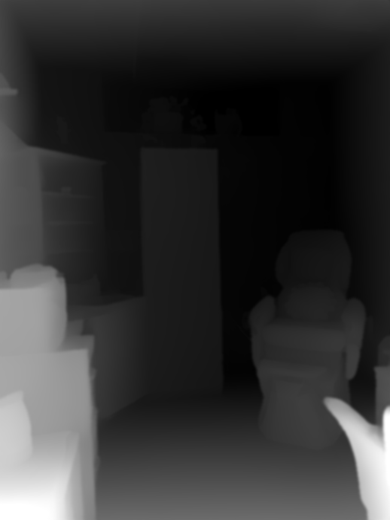
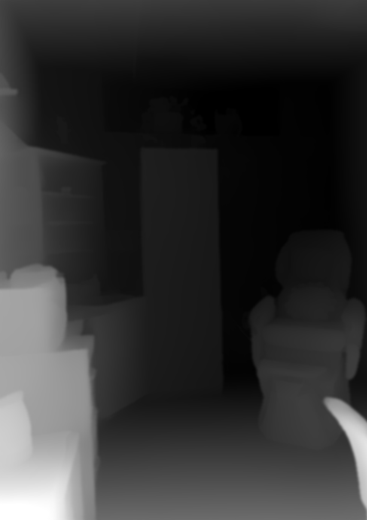
3D suite: one rolling cart (trim duplicate sliver from chair photo), retouch half-cut flowers and dark sliver at the seam, hinge walls on the shared corner
Claude-Session: https://claude.ai/code/session_01YEyJbbYGsKQQ92cto3SP7R

diff --git a/js/build/app.js b/js/build/app.js
@@ -1,1 +1,1 @@
-import{a as v,b as x,c as T,d as R,e as q,f as H,i as r,j as k,k as p,l as M}from"./chunk-SJBJ4AOW.js";var s=(t,e=document)=>e.querySelector(t),d=(t,e=document)=>[...e.querySelectorAll(t)],y=document.documentElement,O=matchMedia("(prefers-reduced-motion: reduce)").matches,N=t=>new Promise(e=>setTimeout(e,t)),g=null,L=s("#neonGL"),_=L?import("./neon-DC5NIUXJ.js").then(({createNeon:t})=>t(s(".door"),L)).then(t=>{if(!t){L.remove();return}return g=t,s(".door").classList.add("neon-live"),window.neonSurge=()=>t.surge(),t.ready}).catch(()=>L.remove()):Promise.resolve(),B=document.fonts?document.fonts.ready.catch(()=>{}):Promise.resolve();Promise.race([Promise.all([_,B,N(O?300:1600)]),N(5e3)]).then(()=>{if(!y.classList.contains("loading")){g&&g.start();return}window.scrollTo(0,0),window.__lenis&&window.__lenis.scrollTo(0,{immediate:!0,force:!0}),y.classList.add("handoff"),y.classList.remove("loading"),requestAnimationFrame(()=>requestAnimationFrame(W))});function W(){let t=s(".splash-sign"),e=0;if(g&&t&&!O){let n=s(".door").getBoundingClientRect(),a=g.rectOf(380,200,1230,510),o=t.getBoundingClientRect(),i=a.width/o.width;t.style.transformOrigin="0 0",t.style.transition="transform .9s cubic-bezier(.65,0,.25,1)",t.style.transform=`translate(${n.left+a.left-o.left}px, ${n.top+a.top-o.top}px) scale(${i})`,e=650}setTimeout(()=>{y.classList.add("revealing","revealed"),setTimeout(()=>g&&g.start(),O?0:450),setTimeout(()=>{y.classList.remove("revealing","handoff"),s(".splash")?.remove()},1900)},e)}var w=s(".chandelier");if(w){let t=new IntersectionObserver(([e])=>{e.isIntersecting&&(t.disconnect(),import("./chandelier-TIB7XYI3.js").then(({createChandelier:n})=>{let a=n(w);a&&(w.classList.add("live"),window.chandelierSparkle=a.sparkle)}).catch(()=>{}))},{rootMargin:"600px"});t.observe(w)}var E=s("#stage"),S=s("#stageTip"),u=t=>{S.textContent=t,S.classList.remove("flash"),S.offsetWidth,S.classList.add("flash")},Z={square:"M6 22 C6 26 18 26 18 22 L18 6 Q18 3 15 3 L9 3 Q6 3 6 6 Z",round:"M6 22 C6 26 18 26 18 22 L18 9 C18 2 6 2 6 9 Z",almond:"M6 22 C6 26 18 26 18 22 L18 12 C18 5 14 1 12 1 C10 1 6 5 6 12 Z",coffin:"M6 22 C6 26 18 26 18 22 L18 12 L15 1 L9 1 L6 12 Z",stiletto:"M6 22 C6 26 18 26 18 22 L18 12 C18 7 13 2 12 0 C11 2 6 7 6 12 Z"},D={gloss:"radial-gradient(circle at 35% 30%,#fff 0 12%,#e2457f 30%,#a3184f 100%)",cateye:"linear-gradient(135deg,#3a0f2a 20%,#ffd1e6 50%,#3a0f2a 80%)",chrome:"linear-gradient(135deg,#fff,#f3d6ff 35%,#ffffff 50%,#cfe8ff 70%,#ffe3f0)",glitter:"radial-gradient(circle at 20% 30%,#fff 0 2px,transparent 3px),radial-gradient(circle at 70% 60%,#ffe9a8 0 2px,transparent 3px),radial-gradient(circle at 45% 80%,#fff 0 1.5px,transparent 3px),radial-gradient(circle at 80% 20%,#ffd3ec 0 2px,transparent 3px),#c8326f",jelly:"radial-gradient(circle at 35% 30%,rgba(255,255,255,.9) 0 10%,rgba(226,69,127,.55) 35%,rgba(160,20,80,.7))",matte:"linear-gradient(160deg,#d85d8b,#b13d6a)"},z={none:"\u2205",daisy:"\u273F",sunflower:"\u2740",starfish:"\u2605",dots:"\u2058",french:"\u25E0",gems:"\u25C6",heart:"\u2665",swirl:"\u3030"};function P(t,e,n,a){t.innerHTML=Object.entries(e).map(([o,i])=>`<button type="button" data-v="${o}" class="${r[n]===o?"on":""}" aria-pressed="${r[n]===o}">${a(o)}<span>${i}</span></button>`).join(""),t.addEventListener("click",o=>{let i=o.target.closest("button");i&&(d("button",t).forEach(m=>{let b=m===i;m.classList.toggle("on",b),m.setAttribute("aria-pressed",b)}),r[n]=i.dataset.v,p(n))})}P(s("#shapes"),R,"shape",t=>`<svg viewBox="0 0 24 27" aria-hidden="true"><path d="${Z[t]}"/></svg>`);P(s("#finishes"),q,"finish",t=>`<i class="sw" style="background:${D[t]}"></i>`);P(s("#arts"),H,"art",t=>`<i class="ai">${z[t]}</i>`);var I=s("#polishWall");I.innerHTML=v.map(([t,e],n)=>`<button type="button" class="bottle${n===0?" on":""}" style="--c:${e}" data-k="${n}" aria-label="${t}"><i class="b-cap"></i><i class="b-neck"></i><i class="b-glass"><i class="b-shine"></i></i></button>`).join("");s("#colorName").textContent=r.color[0];var A=s("#tones");A.innerHTML=T.map((t,e)=>`<button type="button" style="--t:${t}" data-k="${e}" class="${t===r.tone?"on":""}" aria-label="Skin tone ${e+1}"></button>`).join("");A.addEventListener("click",t=>{let e=t.target.closest("button");e&&(d("button",A).forEach(n=>n.classList.toggle("on",n===e)),r.tone=T[+e.dataset.k],p("tone"))});var V=s("#sendDesign"),j=()=>{V.href=M()};k(j);j();k(t=>{if(t==="finish"){let e={cateye:"Cat-eye! Slide your finger across the hand (or tilt your phone) to move the magnet.",chrome:"Chrome glaze: a pearly, glazed-donut shine.",glitter:"Glitter flakes catch the light as the hand moves.",jelly:"Jelly: sheer, glassy and juicy.",matte:"Velvet matte: soft and luxe.",gloss:"Classic gloss with a mirror topcoat."}[r.finish];u(e)}t==="art"&&r.art==="gems"&&u("Real crystals on your ring finger. Watch them catch the light \u2728")});var c=null,C=null;function $(){return c||C||(C=import("./studio-2SNXEXIX.js").then(({createStudio:t})=>(G(t),c))),C}function G(t){if(c=t(E,{onTip:u}),!c){E.classList.add("no-gl"),u("Your browser can\u2019t show the 3D studio, but Sang can still paint anything you dream up!");return}E.classList.add("ready")}var F=new IntersectionObserver(([t])=>{t.isIntersecting&&($(),F.disconnect())},{rootMargin:"400px"});F.observe(E);I.addEventListener("click",t=>{let e=t.target.closest(".bottle");e&&(d(".bottle",I).forEach(n=>n.classList.toggle("on",n===e)),r.color=v[+e.dataset.k],s("#colorName").textContent=r.color[0],Promise.resolve($()).then(()=>c&&c.paintAll(r.color[1])),u("Tap a nail for a fresh coat, or drag the brush to paint by hand."),p("color"))});s("#paintAll").addEventListener("click",async()=>{await $(),c&&c.paintAll()});s("#rainbow").addEventListener("click",async()=>{await $(),c&&(r.finish="cateye",d("#finishes button").forEach(t=>{let e=t.dataset.v==="cateye";t.classList.toggle("on",e),t.setAttribute("aria-pressed",e)}),p("finish"),c.paintSet(x),u("Inspired by Sang\u2019s rainbow cat-eye set. Slide across to move the shimmer!"))});s("#clearNails").addEventListener("click",()=>{c&&c.clear(),u("Bare and buffed. Pick a color from the wall.")});var f=s("#tryon"),Q=t=>{let e=r.nailColors[t],n=e[e.length-1],a=[...v,...x].find(o=>o[0]===n);return a?a[1]:r.color[1]},h=null;s("#tryOnBtn").addEventListener("click",async()=>{if(!navigator.mediaDevices?.getUserMedia){u("Your browser doesn\u2019t allow camera access here.");return}f.hidden=!1,f.querySelector(".to-status").textContent="Loading\u2026",h=h||await import("./tryon-ROLPQHYR.js"),f.querySelector(".to-send").href=M(),h.openTryOn(f,Q)});f.querySelector(".to-close").addEventListener("click",()=>h&&h.closeTryOn(f));f.querySelector(".to-flip").addEventListener("click",()=>h&&h.flipCamera(f));var l=s("#suiteStage");if(l){let t=[];d(".suite-photos .hotspot-photo").forEach((a,o)=>{d(".hs",a).forEach(i=>{let m=parseFloat(i.style.getPropertyValue("--x"))/100,b=parseFloat(i.style.getPropertyValue("--y"))/100;t.push({view:o,u:m,v:1-b,title:i.dataset.title,text:i.dataset.text})})});let e=null,n=new IntersectionObserver(async([a])=>{if(!a.isIntersecting||e)return;n.disconnect();let{createSuite:o}=await import("./suite-QZJIKIXK.js");if(e=o(l,t),!e){l.remove();return}l.classList.add("ready"),s(".suite").classList.add("immersive")},{rootMargin:"500px"});n.observe(l),d(".suite-views button",l).forEach(a=>a.addEventListener("click",()=>e&&e.goTo(+a.dataset.view))),l.addEventListener("suiteview",a=>{d(".suite-views button",l).forEach(o=>o.classList.toggle("on",+o.dataset.view===a.detail))})}
+import{a as v,b as x,c as T,d as R,e as q,f as H,i as r,j as k,k as p,l as M}from"./chunk-SJBJ4AOW.js";var s=(t,e=document)=>e.querySelector(t),d=(t,e=document)=>[...e.querySelectorAll(t)],y=document.documentElement,O=matchMedia("(prefers-reduced-motion: reduce)").matches,N=t=>new Promise(e=>setTimeout(e,t)),g=null,L=s("#neonGL"),_=L?import("./neon-DC5NIUXJ.js").then(({createNeon:t})=>t(s(".door"),L)).then(t=>{if(!t){L.remove();return}return g=t,s(".door").classList.add("neon-live"),window.neonSurge=()=>t.surge(),t.ready}).catch(()=>L.remove()):Promise.resolve(),B=document.fonts?document.fonts.ready.catch(()=>{}):Promise.resolve();Promise.race([Promise.all([_,B,N(O?300:1600)]),N(5e3)]).then(()=>{if(!y.classList.contains("loading")){g&&g.start();return}window.scrollTo(0,0),window.__lenis&&window.__lenis.scrollTo(0,{immediate:!0,force:!0}),y.classList.add("handoff"),y.classList.remove("loading"),requestAnimationFrame(()=>requestAnimationFrame(W))});function W(){let t=s(".splash-sign"),e=0;if(g&&t&&!O){let n=s(".door").getBoundingClientRect(),a=g.rectOf(380,200,1230,510),o=t.getBoundingClientRect(),i=a.width/o.width;t.style.transformOrigin="0 0",t.style.transition="transform .9s cubic-bezier(.65,0,.25,1)",t.style.transform=`translate(${n.left+a.left-o.left}px, ${n.top+a.top-o.top}px) scale(${i})`,e=650}setTimeout(()=>{y.classList.add("revealing","revealed"),setTimeout(()=>g&&g.start(),O?0:450),setTimeout(()=>{y.classList.remove("revealing","handoff"),s(".splash")?.remove()},1900)},e)}var w=s(".chandelier");if(w){let t=new IntersectionObserver(([e])=>{e.isIntersecting&&(t.disconnect(),import("./chandelier-TIB7XYI3.js").then(({createChandelier:n})=>{let a=n(w);a&&(w.classList.add("live"),window.chandelierSparkle=a.sparkle)}).catch(()=>{}))},{rootMargin:"600px"});t.observe(w)}var E=s("#stage"),S=s("#stageTip"),u=t=>{S.textContent=t,S.classList.remove("flash"),S.offsetWidth,S.classList.add("flash")},Z={square:"M6 22 C6 26 18 26 18 22 L18 6 Q18 3 15 3 L9 3 Q6 3 6 6 Z",round:"M6 22 C6 26 18 26 18 22 L18 9 C18 2 6 2 6 9 Z",almond:"M6 22 C6 26 18 26 18 22 L18 12 C18 5 14 1 12 1 C10 1 6 5 6 12 Z",coffin:"M6 22 C6 26 18 26 18 22 L18 12 L15 1 L9 1 L6 12 Z",stiletto:"M6 22 C6 26 18 26 18 22 L18 12 C18 7 13 2 12 0 C11 2 6 7 6 12 Z"},D={gloss:"radial-gradient(circle at 35% 30%,#fff 0 12%,#e2457f 30%,#a3184f 100%)",cateye:"linear-gradient(135deg,#3a0f2a 20%,#ffd1e6 50%,#3a0f2a 80%)",chrome:"linear-gradient(135deg,#fff,#f3d6ff 35%,#ffffff 50%,#cfe8ff 70%,#ffe3f0)",glitter:"radial-gradient(circle at 20% 30%,#fff 0 2px,transparent 3px),radial-gradient(circle at 70% 60%,#ffe9a8 0 2px,transparent 3px),radial-gradient(circle at 45% 80%,#fff 0 1.5px,transparent 3px),radial-gradient(circle at 80% 20%,#ffd3ec 0 2px,transparent 3px),#c8326f",jelly:"radial-gradient(circle at 35% 30%,rgba(255,255,255,.9) 0 10%,rgba(226,69,127,.55) 35%,rgba(160,20,80,.7))",matte:"linear-gradient(160deg,#d85d8b,#b13d6a)"},z={none:"\u2205",daisy:"\u273F",sunflower:"\u2740",starfish:"\u2605",dots:"\u2058",french:"\u25E0",gems:"\u25C6",heart:"\u2665",swirl:"\u3030"};function P(t,e,n,a){t.innerHTML=Object.entries(e).map(([o,i])=>`<button type="button" data-v="${o}" class="${r[n]===o?"on":""}" aria-pressed="${r[n]===o}">${a(o)}<span>${i}</span></button>`).join(""),t.addEventListener("click",o=>{let i=o.target.closest("button");i&&(d("button",t).forEach(m=>{let b=m===i;m.classList.toggle("on",b),m.setAttribute("aria-pressed",b)}),r[n]=i.dataset.v,p(n))})}P(s("#shapes"),R,"shape",t=>`<svg viewBox="0 0 24 27" aria-hidden="true"><path d="${Z[t]}"/></svg>`);P(s("#finishes"),q,"finish",t=>`<i class="sw" style="background:${D[t]}"></i>`);P(s("#arts"),H,"art",t=>`<i class="ai">${z[t]}</i>`);var I=s("#polishWall");I.innerHTML=v.map(([t,e],n)=>`<button type="button" class="bottle${n===0?" on":""}" style="--c:${e}" data-k="${n}" aria-label="${t}"><i class="b-cap"></i><i class="b-neck"></i><i class="b-glass"><i class="b-shine"></i></i></button>`).join("");s("#colorName").textContent=r.color[0];var A=s("#tones");A.innerHTML=T.map((t,e)=>`<button type="button" style="--t:${t}" data-k="${e}" class="${t===r.tone?"on":""}" aria-label="Skin tone ${e+1}"></button>`).join("");A.addEventListener("click",t=>{let e=t.target.closest("button");e&&(d("button",A).forEach(n=>n.classList.toggle("on",n===e)),r.tone=T[+e.dataset.k],p("tone"))});var V=s("#sendDesign"),j=()=>{V.href=M()};k(j);j();k(t=>{if(t==="finish"){let e={cateye:"Cat-eye! Slide your finger across the hand (or tilt your phone) to move the magnet.",chrome:"Chrome glaze: a pearly, glazed-donut shine.",glitter:"Glitter flakes catch the light as the hand moves.",jelly:"Jelly: sheer, glassy and juicy.",matte:"Velvet matte: soft and luxe.",gloss:"Classic gloss with a mirror topcoat."}[r.finish];u(e)}t==="art"&&r.art==="gems"&&u("Real crystals on your ring finger. Watch them catch the light \u2728")});var c=null,C=null;function $(){return c||C||(C=import("./studio-2SNXEXIX.js").then(({createStudio:t})=>(G(t),c))),C}function G(t){if(c=t(E,{onTip:u}),!c){E.classList.add("no-gl"),u("Your browser can\u2019t show the 3D studio, but Sang can still paint anything you dream up!");return}E.classList.add("ready")}var F=new IntersectionObserver(([t])=>{t.isIntersecting&&($(),F.disconnect())},{rootMargin:"400px"});F.observe(E);I.addEventListener("click",t=>{let e=t.target.closest(".bottle");e&&(d(".bottle",I).forEach(n=>n.classList.toggle("on",n===e)),r.color=v[+e.dataset.k],s("#colorName").textContent=r.color[0],Promise.resolve($()).then(()=>c&&c.paintAll(r.color[1])),u("Tap a nail for a fresh coat, or drag the brush to paint by hand."),p("color"))});s("#paintAll").addEventListener("click",async()=>{await $(),c&&c.paintAll()});s("#rainbow").addEventListener("click",async()=>{await $(),c&&(r.finish="cateye",d("#finishes button").forEach(t=>{let e=t.dataset.v==="cateye";t.classList.toggle("on",e),t.setAttribute("aria-pressed",e)}),p("finish"),c.paintSet(x),u("Inspired by Sang\u2019s rainbow cat-eye set. Slide across to move the shimmer!"))});s("#clearNails").addEventListener("click",()=>{c&&c.clear(),u("Bare and buffed. Pick a color from the wall.")});var f=s("#tryon"),Q=t=>{let e=r.nailColors[t],n=e[e.length-1],a=[...v,...x].find(o=>o[0]===n);return a?a[1]:r.color[1]},h=null;s("#tryOnBtn").addEventListener("click",async()=>{if(!navigator.mediaDevices?.getUserMedia){u("Your browser doesn\u2019t allow camera access here.");return}f.hidden=!1,f.querySelector(".to-status").textContent="Loading\u2026",h=h||await import("./tryon-ROLPQHYR.js"),f.querySelector(".to-send").href=M(),h.openTryOn(f,Q)});f.querySelector(".to-close").addEventListener("click",()=>h&&h.closeTryOn(f));f.querySelector(".to-flip").addEventListener("click",()=>h&&h.flipCamera(f));var l=s("#suiteStage");if(l){let t=[];d(".suite-photos .hotspot-photo").forEach((a,o)=>{d(".hs",a).forEach(i=>{let m=parseFloat(i.style.getPropertyValue("--x"))/100,b=parseFloat(i.style.getPropertyValue("--y"))/100;t.push({view:o,u:m,v:1-b,title:i.dataset.title,text:i.dataset.text})})});let e=null,n=new IntersectionObserver(async([a])=>{if(!a.isIntersecting||e)return;n.disconnect();let{createSuite:o}=await import("./suite-EJ25NBZ6.js");if(e=o(l,t),!e){l.remove();return}l.classList.add("ready"),s(".suite").classList.add("immersive")},{rootMargin:"500px"});n.observe(l),d(".suite-views button",l).forEach(a=>a.addEventListener("click",()=>e&&e.goTo(+a.dataset.view))),l.addEventListener("suiteview",a=>{d(".suite-views button",l).forEach(o=>o.classList.toggle("on",+o.dataset.view===a.detail))})}

diff --git a/js/build/suite-EJ25NBZ6.js b/js/build/suite-EJ25NBZ6.js
@@ -1,0 +1,72 @@
+import{d as Ie,e as Fe,f as ke,g as Le,h as We}from"./chunk-RT5W57VC.js";import{D as Ee,Fa as De,G as O,O as Me,Q as xe,T as $,V as Te,X as Re,Y as ye,_ as Z,b as ge,ba as be,ca as Se,e as N,g as we,la as He,ma as Pe,qa as L,va as Ce,wa as Ae,z as k}from"./chunk-NTALV72E.js";var Ue=matchMedia("(prefers-reduced-motion: reduce)").matches,ze=new URL("../../images/",import.meta.url).href,Je=[{img:"suite-desk-hd.webp",depth:"suite-desk-depth.png"},{img:"suite-pedicure-hd.webp",depth:"suite-pedicure-depth.png"}],W=4.6,Q=W*.75,ee=4,J=1.55,w=Math.atan(Q/2/ee),Qe=[[[.262,.128],[.078,.323],[.352,.25],[.279,.256],[.772,.119],[.675,.132],[.527,.141],[.745,.234],[.854,.23],[.554,.243],[.614,.241],[.835,.343],[.147,.322],[.613,.135],[.132,.602],[.296,.602],[.448,.606],[.819,.437],[.674,.237],[.397,.144],[.925,.227],[.16,.644],[.381,.604],[.201,.601],[.876,.675],[.466,.145]],[[.144,.58],[.334,.346],[.181,.637],[.128,.522],[.238,.526],[.204,.579],[.057,.637],[.486,.556],[.078,.49],[.073,.579],[.446,.694],[.238,.356],[.631,.385],[.171,.17],[.743,.215],[.161,.041],[.154,.475],[.246,.466],[.371,.417],[.91,.211],[.833,.235],[.3,.403],[.078,.716],[.188,.424],[.152,.097],[.141,.325]]],M=[Q,Q*.94],Ge=[1,.94],et=Qe.map((r,v)=>r.map(([l,m])=>[l/Ge[v],m]).filter(([l])=>l<.98)),_e=[-w,w];function st(r,v){let l;try{l=new De({antialias:!0})}catch{return null}let m=Math.min(innerWidth,innerHeight)<600;l.setPixelRatio(Math.min(devicePixelRatio||1,m?2:1.6)),l.outputColorSpace=k,l.toneMapping=we,l.domElement.className="suite-canvas",r.prepend(l.domElement);let h=new xe;h.background=new Me("#f9e6ec");let u=new Ae(70,1,.05,50),Be=new Z(new Pe(20,32,16),new L({side:ge,depthWrite:!1,vertexShader:"varying vec3 vP; void main(){ vP = normalize(position); gl_Position = projectionMatrix * modelViewMatrix * vec4(position,1.0); }",fragmentShader:"varying vec3 vP; void main(){ float g = smoothstep(-0.6, 0.9, -vP.z); vec3 c = mix(vec3(0.93,0.78,0.83), vec3(1.0,0.96,0.95), g); gl_FragColor = vec4(c,1.0); }"}));h.add(Be);let C=new We({count:m?40:70,scale:[7,5,4],size:3,speed:.2,opacity:.85,color:"#fff3d6",noise:1});C.position.set(0,0,-2.2),C.setPixelRatio(l.getPixelRatio()),h.add(C);let te=new Ce,ae=[],U=Je.map((e,t)=>{let a=te.load(ze+e.img);a.colorSpace=k,a.anisotropy=8;let i=te.load(ze+e.depth,E=>Xe(E.image,t)),d=new He(M[t],W,m?180:260,m?240:346),n=new L({transparent:!0,uniforms:{uMap:{value:a},uDepth:{value:i},uRelief:{value:J},uSide:{value:Math.sign(_e[t])},uReveal:{value:0}},vertexShader:`
+        uniform sampler2D uDepth; uniform float uRelief; uniform float uReveal; uniform float uSide;
+        varying vec2 vUv; varying float vD;
+        void main(){
+          vUv = uv;
+          float d = texture2D(uDepth, uv).r;
+          vD = d;
+          vec3 p = position;
+          // ease the relief to flat at the corner seam so the two photos meet without a gap
+          float seam = uSide > 0.0 ? 1.0 - uv.x : uv.x;
+          float keep = smoothstep(0.0, 0.08, seam);
+          p.z += (d - 0.25) * uRelief * uReveal * keep;
+          gl_Position = projectionMatrix * modelViewMatrix * vec4(p, 1.0);
+        }`,fragmentShader:`
+        uniform sampler2D uMap; uniform float uSide; uniform float uReveal;
+        varying vec2 vUv; varying float vD;
+        void main(){
+          vec4 c = texture2D(uMap, vUv);
+          // feather the outer edges into the glow; keep the corner seam crisp
+          float outer = uSide > 0.0 ? smoothstep(0.0, 0.04, vUv.x) : smoothstep(1.0, 0.96, vUv.x);
+          float tb = smoothstep(0.0, 0.05, vUv.y) * smoothstep(1.0, 0.95, vUv.y);
+          // depth fog: far wall a touch softer, near things pop
+          c.rgb = mix(c.rgb * 0.94 + 0.06, c.rgb * 1.04, vD);
+          gl_FragColor = vec4(c.rgb, outer * tb * uReveal);
+        }`}),s=new Z(d,n),p=_e[t],f=Math.sign(p),H=Math.cos(w),P=Math.sin(w),g=M[t]/2;return s.position.set(-f*H*g,0,-ee/H+P*g),s.rotation.y=p,h.add(s),s});function Xe(e,t){let a=document.createElement("canvas");a.width=e.width,a.height=e.height;let i=a.getContext("2d",{willReadFrequently:!0});i.drawImage(e,0,0),ae[t]={w:a.width,h:a.height,px:i.getImageData(0,0,a.width,a.height).data}}function oe(e,t,a){let i=ae[e];if(!i)return .5;let d=Math.min(i.w-1,Math.max(0,Math.round(t*(i.w-1)))),n=Math.min(i.h-1,Math.max(0,Math.round((1-a)*(i.h-1))));return i.px[(n*i.w+d)*4]/255}let T=new Fe(l);T.addPass(new ke(h,u));let R=new Ie({uniforms:{tDiffuse:{value:null},uK:{value:.32},uAspect:{value:1},uTime:{value:0}},vertexShader:"varying vec2 vUv; void main(){ vUv = uv; gl_Position = projectionMatrix * modelViewMatrix * vec4(position,1.0); }",fragmentShader:`
+      uniform sampler2D tDiffuse; uniform float uK; uniform float uAspect; uniform float uTime;
+      varying vec2 vUv;
+      vec2 barrel(vec2 uv, float k){
+        vec2 p = uv * 2.0 - 1.0; p.x *= uAspect;
+        float r2 = dot(p, p);
+        p *= (1.0 - k * 0.42) / (1.0 - k * 0.42 * r2 * 0.6) ;
+        p *= 1.0 / (1.0 + k * 0.35);
+        p.x /= uAspect;
+        return p * 0.5 + 0.5;
+      }
+      void main(){
+        vec2 c = vUv * 2.0 - 1.0;
+        float r = length(c);
+        // tiny chromatic split toward the edges, like real glass
+        float ca = 0.0022 * r * r;
+        vec3 col;
+        col.r = texture2D(tDiffuse, barrel(vUv, uK + ca * 8.0)).r;
+        col.g = texture2D(tDiffuse, barrel(vUv, uK)).g;
+        col.b = texture2D(tDiffuse, barrel(vUv, uK - ca * 8.0)).b;
+        // soft pink vignette
+        vec2 cv = c; cv.x *= min(uAspect, 1.25) / max(uAspect, 1.0) * 1.0; float vig = smoothstep(1.5, 0.75, length(cv));
+        col = mix(vec3(0.96, 0.83, 0.88), col, vig);
+        gl_FragColor = vec4(col, 1.0);
+      }`});T.addPass(R),T.addPass(new Le);let z=w*1.15,ne=z,y=.16,o={slide:.6,target:.6,vel:0,pitch:0,tp:0,tilt:0},c=null,b=performance.now(),ie=0,re=!1;r.addEventListener("pointerdown",e=>{if(!e.target.closest(".hs, .suite-views")){c={id:e.pointerId,x:e.clientX,y:e.clientY,start:o.target,lastX:e.clientX,lastT:performance.now()};try{r.setPointerCapture(e.pointerId)}catch{}o.vel=0,b=performance.now(),re||(re=!0,r.classList.add("touched"))}}),r.addEventListener("pointermove",e=>{if(c&&e.pointerId===c.id){let t=r.clientWidth;o.target=x(c.start-(e.clientX-c.x)/(t*.42),-1,1);let a=performance.now(),i=Math.max(1,a-c.lastT);o.vel=-(e.clientX-c.lastX)/(t*.42)/i*16,c.lastX=e.clientX,c.lastT=a,e.pointerType==="mouse"&&(o.tp=x(-(e.clientY-c.y)/t*.6,-y,y)),b=a}else if(e.pointerType==="mouse"){let t=r.getBoundingClientRect();o.tp=x(-((e.clientY-t.top)/t.height-.5)*y*1.2,-y,y)}});let _=e=>{c&&(!e||e.pointerId===c.id)&&(c=null,b=performance.now())};r.addEventListener("pointerup",_),r.addEventListener("pointercancel",_),r.addEventListener("lostpointercapture",_);let S=null;addEventListener("deviceorientation",e=>{e.gamma==null||!D||(S||(S=e.gamma),S+=(e.gamma-S)*.01,o.tilt=x((e.gamma-S)/25,-1,1)*.22)});function qe(e){o.target=e===0?.75:-.75,o.vel=0,b=performance.now()+4e3}let Ke=(()=>{let e=document.createElement("canvas");e.width=e.height=128;let t=e.getContext("2d");t.translate(64,64);let a=(n,s,p)=>{t.save(),t.rotate(p);let f=t.createLinearGradient(-n,0,n,0);f.addColorStop(0,"rgba(255,255,255,0)"),f.addColorStop(.5,"rgba(255,255,255,1)"),f.addColorStop(1,"rgba(255,255,255,0)"),t.fillStyle=f,t.beginPath(),t.moveTo(-n,0),t.lineTo(0,-s),t.lineTo(n,0),t.lineTo(0,s),t.fill(),t.restore()};a(62,2.4,0),a(62,2.4,Math.PI/2),a(24,1.3,Math.PI/4),a(24,1.3,-Math.PI/4);let i=t.createRadialGradient(0,0,0,0,0,20);i.addColorStop(0,"rgba(255,255,255,1)"),i.addColorStop(1,"rgba(255,255,255,0)"),t.fillStyle=i,t.beginPath(),t.arc(0,0,20,0,7),t.fill();let d=new Se(e);return d.colorSpace=k,d})(),Ve=["#ffffff","#fff4dc","#ffffff","#ffd9ea","#ffffff","#e6f2ff"],G=[];for(let e=0;e<6;e++){let t=new ye(new Re({map:Ke,color:Ve[e],transparent:!0,depthTest:!1,depthWrite:!1,blending:N}));t.visible=!1,t.renderOrder=5,h.add(t),G.push({sp:t,t:1,life:1,size:.2})}let B=1.2;function Ye(){let e=G.find(p=>p.t>=1);if(!e)return;let t=Math.random()<.8?o.slide<0?1:0:o.slide<0?0:1,a=et[t],[i,d]=a[Math.random()*a.length|0],n=U[t],s=oe(t,i,d);e.sp.position.set((i-.5)*M[t],(d-.5)*W,(s-.25)*J*n.material.uniforms.uReveal.value+.05).applyMatrix4(n.matrixWorld),e.t=0,e.life=.7+Math.random()*.6,e.size=.16+Math.random()*.14,e.rot=Math.random()*.5,e.sp.visible=!0}let X=m?36:60,q=new Te,se=new Float32Array(X*3),le=new Float32Array(X*4);for(let e=0;e<X;e++)se.set([(Math.random()-.5)*6,Math.random()*4.6-2.3,-.8-Math.random()*2.6],e*3),le.set([Math.random(),Math.random(),Math.random(),Math.random()],e*4);q.setAttribute("position",new $(se,3)),q.setAttribute("seed",new $(le,4));let ce=new L({uniforms:{uTime:{value:0},uPx:{value:l.getPixelRatio()}},vertexShader:`
+      uniform float uTime; uniform float uPx; attribute vec4 seed;
+      varying float vFlash; varying vec3 vCol;
+      void main(){
+        vec3 p = position;
+        float fall = 0.10 + seed.x * 0.08;                         // slow drift down
+        p.y = mod(p.y + 2.3 - uTime * fall, 4.6) - 2.3;
+        p.x += sin(uTime * (0.3 + seed.y * 0.4) + seed.z * 6.28) * 0.18;
+        float spin = uTime * (1.2 + seed.w * 2.2) + seed.z * 6.28;
+        vFlash = pow(abs(sin(spin)), 14.0);                        // the flat flake catches the light briefly
+        vCol = seed.y < 0.45 ? vec3(1.0, 0.86, 0.55) : seed.y < 0.75 ? vec3(1.0, 0.75, 0.86) : vec3(1.0);
+        vec4 mv = modelViewMatrix * vec4(p, 1.0);
+        gl_PointSize = (2.0 + 5.0 * vFlash) * uPx * (2.2 / -mv.z);
+        gl_Position = projectionMatrix * mv;
+      }`,fragmentShader:`
+      varying float vFlash; varying vec3 vCol;
+      void main(){
+        vec2 q = gl_PointCoord - 0.5;
+        float d = length(q);
+        float core = smoothstep(0.5, 0.0, d);
+        float cross = max(smoothstep(0.08, 0.0, abs(q.x)), smoothstep(0.08, 0.0, abs(q.y))) * smoothstep(0.5, 0.1, d) * vFlash;
+        float a = (core * (0.18 + 0.82 * vFlash) + cross) * 0.9;
+        gl_FragColor = vec4(vCol * a, a);
+      }`,transparent:!0,depthWrite:!1,depthTest:!1,blending:N}),K=new be(q,ce);K.renderOrder=4,K.frustumCulled=!1,h.add(K),v=v.map(e=>({...e,u:e.u/Ge[e.view]})).filter(e=>e.u<.98);let je=v.map(e=>{let t=document.createElement("button");return t.type="button",t.className="hs hs3d",t.textContent="\u2726",t.dataset.title=e.title,t.dataset.text=e.text,t.setAttribute("aria-label",e.title),t.setAttribute("aria-expanded","false"),r.appendChild(t),{...e,el:t,world:new O}});function Ne(){let e=r.clientWidth,t=r.clientHeight;je.forEach(a=>{let i=U[a.view],d=oe(a.view,a.u,a.v),n=new O((a.u-.5)*M[a.view],(a.v-.5)*W,(d-.25)*J*i.material.uniforms.uReveal.value+.02);a.world.copy(n).applyMatrix4(i.matrixWorld);let s=a.world.clone().project(u),p=s.x,f=s.y,H=e/t,P=R.uniforms.uK.value,g=p,E=f;for(let me=0;me<6;me++){let Y=g*H,j=E,Oe=Y*Y+j*j,he=(1-P*.42)/(1-P*.42*Oe*.6)/(1+P*.35),$e=Y*he/H,Ze=j*he;g+=p-$e,E+=f-Ze}let ve=s.z<1&&Math.abs(g)<.95&&Math.abs(E)<.92;a.el.style.opacity=ve?1:0,a.el.style.pointerEvents=ve?"auto":"none",a.el.style.transform=`translate(${((g+1)/2*e).toFixed(1)}px, ${((1-E)/2*t).toFixed(1)}px) translate(-50%, -50%)`})}let A=!1,D=!1,V=performance.now(),I=0,F=0;function de(e){if(!A)return;let t=Math.min(.05,(e-V)/1e3);V=e,I+=t,c||(Math.abs(o.vel)>5e-4&&(o.target=x(o.target+o.vel*t*60*.06,-1,1),o.vel*=Math.pow(.04,t)),!Ue&&performance.now()-b>8e3&&(ie+=t*.22,o.target+=(Math.sin(ie)*.7-o.target)*t*.4));let a=1-Math.pow(c?1e-5:.004,t);o.slide+=(x(o.target+o.tilt,-1,1)-o.slide)*a,o.pitch+=(o.tp-o.pitch)*a;let i=-o.slide*(o.slide<0?ne:z)*.78;u.position.set(o.slide*.7,o.pitch*.8,.45),u.rotation.set(o.pitch,i,0,"YXZ"),F=Math.min(1,F+t*.9);let d=1-Math.pow(1-F,3);U.forEach(n=>{n.material.uniforms.uReveal.value=d}),R.uniforms.uK.value=.32+(c?.04:0)*1,R.uniforms.uTime.value=I,C.update(I),Ue||(ce.uniforms.uTime.value=I,B-=t,B<=0&&F>.6&&(Ye(),B=.35+Math.random()*.9),G.forEach(n=>{if(n.t>=1){n.sp.visible=!1;return}n.t+=t/n.life;let s=Math.sin(Math.PI*Math.min(1,n.t))**2;n.sp.material.opacity=s,n.sp.scale.setScalar(n.size*(.3+.7*s)),n.sp.material.rotation=n.rot+n.t*.6})),T.render(t),Ne(),r.dispatchEvent(new CustomEvent("suiteview",{detail:o.slide<0?1:0})),requestAnimationFrame(de)}function ue(){let e=r.clientWidth,t=r.clientHeight;l.setSize(e,t,!1),T.setSize(e,t),u.aspect=e/t,u.fov=e/t<.8?80:e/t>1.6?50:60,u.updateProjectionMatrix(),R.uniforms.uAspect.value=e/t;let a=2*Math.atan(Math.tan(Ee.degToRad(u.fov)/2)*u.aspect),i=d=>{let n=Math.cos(w),s=Math.sin(w);return Math.atan2(n*d,ee/n-s*d)};z=Math.max(.06,i(M[0])-a/2*.86),ne=Math.max(.06,i(M[1])-a/2*.86)}function pe(){A||!D||document.hidden||(A=!0,V=performance.now(),requestAnimationFrame(de))}function fe(){A=!1}return new IntersectionObserver(([e])=>{D=e.isIntersecting,D?pe():fe()}).observe(r),document.addEventListener("visibilitychange",()=>document.hidden?fe():pe()),new ResizeObserver(ue).observe(r),ue(),{goTo:qe}}var x=(r,v,l)=>Math.max(v,Math.min(l,r));export{st as createSuite};

diff --git a/src/suite.js b/src/suite.js
@@ -19,7 +19,12 @@ const VIEWS = [
 const PANEL_H = 4.6, PANEL_W = PANEL_H * 0.75, DIST = 4.0, RELIEF = 1.55;
 const HALF = Math.atan((PANEL_W / 2) / DIST);   // angular half-width of one panel
 // real highlights in each photo (polish shelf lights, glass cabinet, chair gold, desk edge), found offline
-const HIGHLIGHTS = [[[0.262, 0.128], [0.078, 0.323], [0.352, 0.25], [0.279, 0.256], [0.772, 0.119], [0.675, 0.132], [0.527, 0.141], [0.745, 0.234], [0.854, 0.23], [0.554, 0.243], [0.614, 0.241], [0.835, 0.343], [0.147, 0.322], [0.613, 0.135], [0.132, 0.602], [0.296, 0.602], [0.448, 0.606], [0.819, 0.437], [0.674, 0.237], [0.397, 0.144], [0.925, 0.227], [0.16, 0.644], [0.381, 0.604], [0.201, 0.601], [0.876, 0.675], [0.466, 0.145]], [[0.144, 0.58], [0.334, 0.346], [0.181, 0.637], [0.128, 0.522], [0.238, 0.526], [0.204, 0.579], [0.057, 0.637], [0.486, 0.556], [0.078, 0.49], [0.073, 0.579], [0.446, 0.694], [0.238, 0.356], [0.631, 0.385], [0.171, 0.17], [0.743, 0.215], [0.161, 0.041], [0.154, 0.475], [0.246, 0.466], [0.371, 0.417], [0.91, 0.211], [0.833, 0.235], [0.3, 0.403], [0.078, 0.716], [0.188, 0.424], [0.152, 0.097], [0.141, 0.325]]];
+const HIGHLIGHTS_RAW = [[[0.262, 0.128], [0.078, 0.323], [0.352, 0.25], [0.279, 0.256], [0.772, 0.119], [0.675, 0.132], [0.527, 0.141], [0.745, 0.234], [0.854, 0.23], [0.554, 0.243], [0.614, 0.241], [0.835, 0.343], [0.147, 0.322], [0.613, 0.135], [0.132, 0.602], [0.296, 0.602], [0.448, 0.606], [0.819, 0.437], [0.674, 0.237], [0.397, 0.144], [0.925, 0.227], [0.16, 0.644], [0.381, 0.604], [0.201, 0.601], [0.876, 0.675], [0.466, 0.145]], [[0.144, 0.58], [0.334, 0.346], [0.181, 0.637], [0.128, 0.522], [0.238, 0.526], [0.204, 0.579], [0.057, 0.637], [0.486, 0.556], [0.078, 0.49], [0.073, 0.579], [0.446, 0.694], [0.238, 0.356], [0.631, 0.385], [0.171, 0.17], [0.743, 0.215], [0.161, 0.041], [0.154, 0.475], [0.246, 0.466], [0.371, 0.417], [0.91, 0.211], [0.833, 0.235], [0.3, 0.403], [0.078, 0.716], [0.188, 0.424], [0.152, 0.097], [0.141, 0.325]]];
+// The chair photo is trimmed at 94% (its right edge showed a sliver of the rolling cart that the
+// desk photo shows whole), so that wall is a little narrower; it still meets the desk wall in the corner.
+const WIDTHS = [PANEL_W, PANEL_W * 0.94];
+const TRIM = [1, 0.94];
+const HIGHLIGHTS = HIGHLIGHTS_RAW.map((l, i) => l.map(([u, v]) => [u / TRIM[i], v]).filter(([u]) => u < 0.98));
 const YAWS = [-HALF, HALF];                     // chair on the left, desk on the right (as in the real suite): they meet in a corner
 
 export function createSuite(container, hotspots) {
@@ -55,7 +60,7 @@ export function createSuite(container, hotspots) {
   const panels = VIEWS.map((v, i) => {
     const tex = loader.load(base + v.img); tex.colorSpace = THREE.SRGBColorSpace; tex.anisotropy = 8;
     const dtex = loader.load(base + v.depth, t => readDepth(t.image, i));
-    const geo = new THREE.PlaneGeometry(PANEL_W, PANEL_H, isPhone ? 180 : 260, isPhone ? 240 : 346);
+    const geo = new THREE.PlaneGeometry(WIDTHS[i], PANEL_H, isPhone ? 180 : 260, isPhone ? 240 : 346);
     const mat = new THREE.ShaderMaterial({
       transparent: true,
       uniforms: { uMap: { value: tex }, uDepth: { value: dtex }, uRelief: { value: RELIEF }, uSide: { value: Math.sign(YAWS[i]) }, uReveal: { value: 0 } },
@@ -89,8 +94,10 @@ export function createSuite(container, hotspots) {
     const mesh = new THREE.Mesh(geo, mat);
     // place on an arc around the viewer, facing in
     const yaw = YAWS[i];
-    mesh.position.set(-Math.sin(yaw) * DIST, 0, -Math.cos(yaw) * DIST);
-    mesh.lookAt(0, 0, 0);
+    // hinge each wall on the shared corner so walls of different widths still meet exactly
+    const sgn = Math.sign(yaw), c = Math.cos(HALF), sn = Math.sin(HALF), w2 = WIDTHS[i] / 2;
+    mesh.position.set(-sgn * c * w2, 0, -DIST / c + sn * w2);
+    mesh.rotation.y = yaw;
     scene.add(mesh);
     return mesh;
   });
@@ -144,7 +151,7 @@ export function createSuite(container, hotspots) {
   // ---------- touch & slide: like a 3D photo ----------
   // `slide` runs from -1 (chair side, left) to +1 (desk side, right). Your finger drives it directly,
   // it keeps a little momentum when you let go, and phone tilt adds a gentle extra wobble.
-  let YAW_MAX = HALF * 1.15, YAW_MIN = -YAW_MAX; const PITCH = 0.16;
+  let YAW_MAX = HALF * 1.15, YAW_LEFT = YAW_MAX; const PITCH = 0.16;
   const look = { slide: 0.6, target: 0.6, vel: 0, pitch: 0, tp: 0, tilt: 0 };
   let drag = null, lastInput = performance.now(), idleT = 0, touched = false;
   container.addEventListener('pointerdown', e => {
@@ -209,7 +216,7 @@ export function createSuite(container, hotspots) {
     const view = Math.random() < 0.8 ? (look.slide < 0 ? 1 : 0) : (look.slide < 0 ? 0 : 1);
     const list = HIGHLIGHTS[view], [u, v] = list[(Math.random() * list.length) | 0];
     const p = panels[view], d = depthAt(view, u, v);
-    g.sp.position.set((u - 0.5) * PANEL_W, (v - 0.5) * PANEL_H, (d - 0.25) * RELIEF * p.material.uniforms.uReveal.value + 0.05).applyMatrix4(p.matrixWorld);
+    g.sp.position.set((u - 0.5) * WIDTHS[view], (v - 0.5) * PANEL_H, (d - 0.25) * RELIEF * p.material.uniforms.uReveal.value + 0.05).applyMatrix4(p.matrixWorld);
     g.t = 0; g.life = 0.7 + Math.random() * 0.6; g.size = 0.16 + Math.random() * 0.14; g.rot = Math.random() * 0.5;
     g.sp.visible = true;
   }
@@ -256,6 +263,7 @@ export function createSuite(container, hotspots) {
   scene.add(flakes);
 
   // ---------- 3D-anchored sparkle hotspots ----------
+  hotspots = hotspots.map(h => ({ ...h, u: h.u / TRIM[h.view] })).filter(h => h.u < 0.98);
   const spots = hotspots.map(h => {
     const b = document.createElement('button');
     b.type = 'button'; b.className = 'hs hs3d'; b.textContent = '✦';
@@ -268,7 +276,7 @@ export function createSuite(container, hotspots) {
     spots.forEach(s => {
       const p = panels[s.view];
       const d = depthAt(s.view, s.u, s.v);
-      const local = new THREE.Vector3((s.u - 0.5) * PANEL_W, (s.v - 0.5) * PANEL_H, (d - 0.25) * RELIEF * p.material.uniforms.uReveal.value + 0.02);
+      const local = new THREE.Vector3((s.u - 0.5) * WIDTHS[s.view], (s.v - 0.5) * PANEL_H, (d - 0.25) * RELIEF * p.material.uniforms.uReveal.value + 0.02);
       s.world.copy(local).applyMatrix4(p.matrixWorld);
       const v = s.world.clone().project(camera);
       // apply the same fisheye mapping as the lens so dots stay glued to objects
@@ -303,7 +311,7 @@ export function createSuite(container, hotspots) {
     const ease = 1 - Math.pow(drag ? 0.00001 : 0.004, dt);
     look.slide += (clamp(look.target + look.tilt, -1, 1) - look.slide) * ease;
     look.pitch += (look.tp - look.pitch) * ease;
-    const yaw = -look.slide * YAW_MAX * 0.78;
+    const yaw = -look.slide * (look.slide < 0 ? YAW_LEFT : YAW_MAX) * 0.78;
     // strong sideways head movement = the 3D-photo parallax effect
     camera.position.set(look.slide * 0.7, look.pitch * 0.8, 0.45);
     camera.rotation.set(look.pitch, yaw, 0, 'YXZ');
@@ -341,8 +349,10 @@ export function createSuite(container, hotspots) {
     lens.uniforms.uAspect.value = w / h;
     // only let the view travel as far as the photos reach
     const hf = 2 * Math.atan(Math.tan(THREE.MathUtils.degToRad(camera.fov) / 2) * camera.aspect);
-    YAW_MAX = Math.max(0.06, 2 * HALF - hf / 2 * 0.86);
-    YAW_MIN = -YAW_MAX;
+    // outer-edge angle of each wall (the left, chair wall is a touch narrower)
+    const edgeAng = w => { const c = Math.cos(HALF), sn = Math.sin(HALF); return Math.atan2(c * w, DIST / c - sn * w); };
+    YAW_MAX = Math.max(0.06, edgeAng(WIDTHS[0]) - hf / 2 * 0.86);
+    YAW_LEFT = Math.max(0.06, edgeAng(WIDTHS[1]) - hf / 2 * 0.86);
   }
   function start() { if (running || !visible || document.hidden) return; running = true; last = performance.now(); requestAnimationFrame(frame); }
   function stop() { running = false; }
